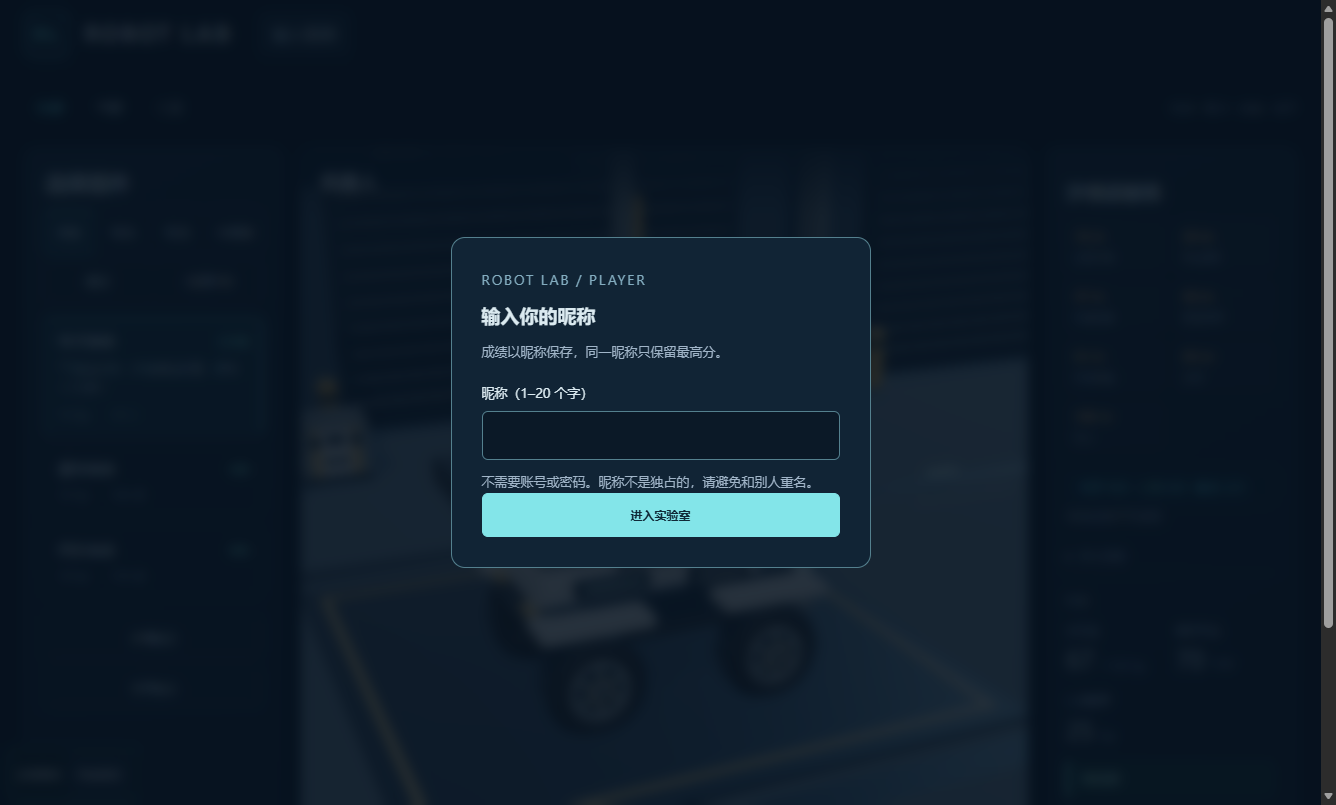
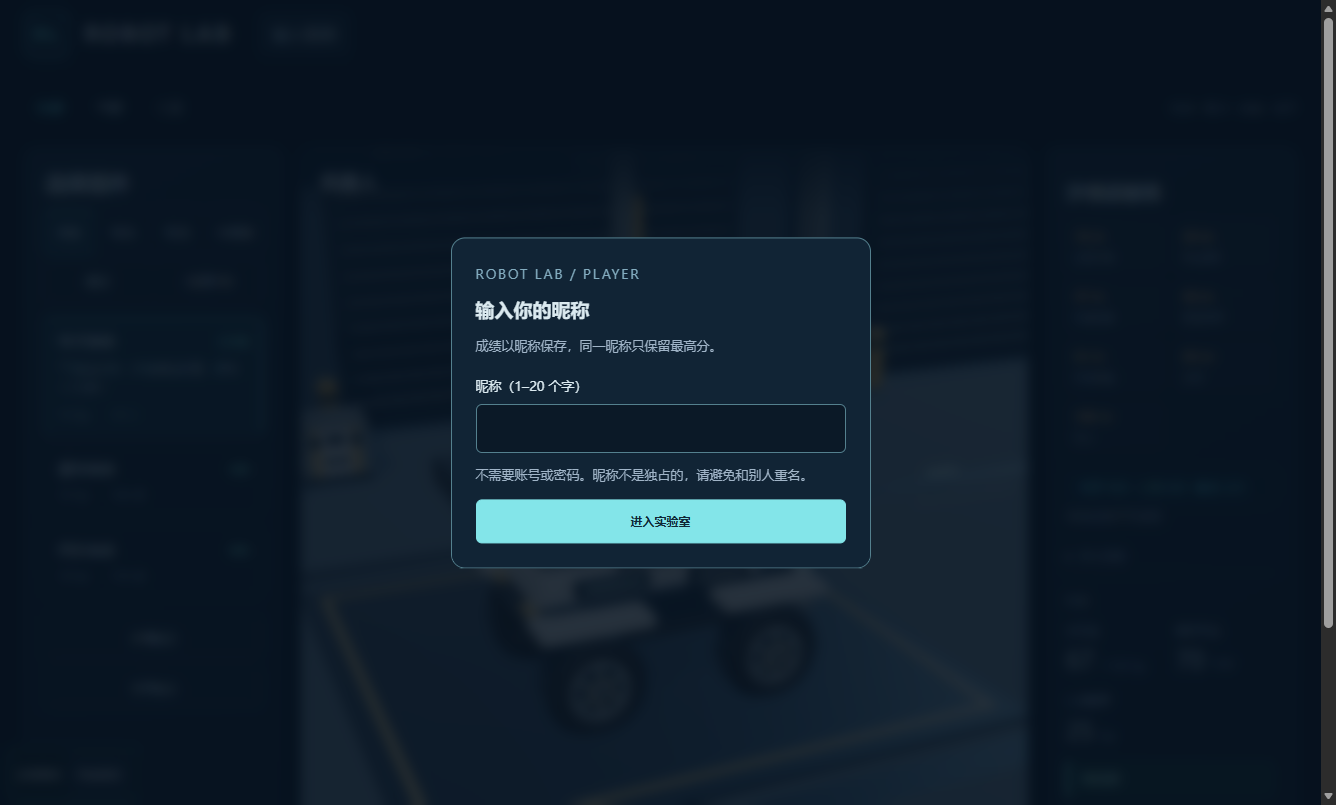
fix: keep mobile nickname confirmation stable with keyboard open

Changed region(s): [[0.3376, 0.559, 0.6445, 0.6832], [0.3376, 0.3416, 0.5217, 0.4969]]

diff --git a/src/app/NicknameScores.ts b/src/app/NicknameScores.ts
@@ -18,8 +18,20 @@ export class NicknameScores {
     } catch { /* Ignore invalid local drafts. */ }
     this.button = root.querySelector<HTMLButtonElement>('#nickname-button')!;
     this.dialog.className = 'nickname-dialog';
-    this.dialog.innerHTML = `<form id="nickname-form"><p class="eyebrow">ROBOT LAB / PLAYER</p><h2>输入你的昵称</h2><p class="muted">成绩以昵称保存，同一昵称只保留最高分。</p><label for="nickname-input">昵称（1–20 个字）</label><input id="nickname-input" name="nickname" autocomplete="nickname" maxlength="40" required><p class="muted">不需要账号或密码。昵称不是独占的，请避免和别人重名。</p><p id="nickname-error" role="alert"></p><button type="submit" class="primary">进入实验室</button></form>`;
+    this.dialog.innerHTML = `<form id="nickname-form"><div class="nickname-body"><p class="eyebrow">ROBOT LAB / PLAYER</p><h2 id="nickname-title">输入你的昵称</h2><p class="muted">成绩以昵称保存，同一昵称只保留最高分。</p><label for="nickname-input">昵称（1–20 个字）</label><input id="nickname-input" name="nickname" autocomplete="nickname" enterkeyhint="go" aria-describedby="nickname-error" maxlength="40" required><p class="muted">不需要账号或密码。昵称不是独占的，请避免和别人重名。</p><p id="nickname-error" role="alert"></p></div><div class="nickname-actions"><button type="submit" class="primary">进入实验室</button></div></form>`;
+    this.dialog.setAttribute('aria-labelledby', 'nickname-title');
     root.append(this.dialog);
+    const input = this.dialog.querySelector<HTMLInputElement>('input')!;
+    const submit = this.dialog.querySelector<HTMLButtonElement>('button[type="submit"]')!;
+    // Keep the keyboard open until click submits: blur can move the button before release.
+    const keepInputFocus = (event: MouseEvent | PointerEvent) => {
+      if (event.button === 0 && document.activeElement === input) event.preventDefault();
+    };
+    submit.addEventListener('pointerdown', keepInputFocus, { signal: this.abort.signal });
+    submit.addEventListener('mousedown', keepInputFocus, { signal: this.abort.signal });
+    window.addEventListener('resize', () => this.updateViewport(), { signal: this.abort.signal });
+    window.visualViewport?.addEventListener('resize', () => this.updateViewport(), { signal: this.abort.signal });
+    window.visualViewport?.addEventListener('scroll', () => this.updateViewport(), { signal: this.abort.signal });
     this.button.addEventListener('click', () => this.open(), {signal:this.abort.signal});
     this.dialog.addEventListener('cancel', e => { if (!this.nickname) e.preventDefault(); });
     this.dialog.querySelector('form')!.addEventListener('submit', e => {
@@ -36,7 +48,12 @@ export class NicknameScores {
     window.addEventListener('online', () => { void this.flush(); }, {signal:this.abort.signal});
     void this.flush();
   }
-  open() { this.dialog.querySelector<HTMLInputElement>('input')!.value=this.nickname; this.dialog.querySelector('#nickname-error')!.textContent=''; if (!this.dialog.open) this.dialog.showModal(); }
+  open() { this.dialog.querySelector<HTMLInputElement>('input')!.value=this.nickname; this.dialog.querySelector('#nickname-error')!.textContent=''; if (!this.dialog.open) { this.updateViewport(); this.dialog.showModal(); this.updateViewport(); } }
+  private updateViewport() {
+    const viewport = window.visualViewport;
+    this.dialog.style.setProperty('--nickname-viewport-height', `${viewport?.height ?? window.innerHeight}px`);
+    this.dialog.style.setProperty('--nickname-viewport-top', `${viewport?.offsetTop ?? 0}px`);
+  }
   update(running: boolean) { this.button.textContent=this.nickname ? this.nickname+' · 更换' : '输入昵称'; this.button.disabled=running; }
   storage(): ConfigurationStorage {
     const prefix='nickname:'+normalizeNickname(this.nickname).key+':';

diff --git a/src/ui/preview.css b/src/ui/preview.css
@@ -155,4 +155,8 @@ kbd{font:10px "Segoe UI",sans-serif;color:var(--muted);border:1px solid #5870847
 }
 
 
-.nickname-dialog{background:#112435;color:#dbeaf0;border:1px solid #54808e;border-radius:14px;padding:30px;width:min(420px,calc(100% - 32px));box-sizing:border-box}.nickname-dialog::backdrop{background:#05101dd9;backdrop-filter:blur(6px)}.nickname-dialog h2{margin:12px 0}.nickname-dialog p{line-height:1.8;font-size:13px}.nickname-dialog label{display:block;margin-top:20px;font-size:13px}.nickname-dialog input{width:100%;box-sizing:border-box;margin:10px 0;padding:13px;background:#0b1927;border:1px solid #54808e;border-radius:6px;color:#e0f5f5;font:inherit}.nickname-dialog #nickname-error{color:#ffb5a1}.nickname-dialog button{min-height:44px}#nickname-button{max-width:220px;overflow-wrap:anywhere}#record-status{overflow-wrap:anywhere}
+.nickname-dialog{position:fixed;inset:auto;left:50%;top:calc(var(--nickname-viewport-top,0px) + var(--nickname-viewport-height,100dvh)/2);transform:translate(-50%,-50%);margin:0;background:#112435;color:#dbeaf0;border:1px solid #54808e;border-radius:14px;padding:0;width:min(420px,calc(100% - 32px));max-height:calc(var(--nickname-viewport-height,100dvh) - 24px);box-sizing:border-box;overflow:hidden}
+.nickname-dialog form{display:flex;flex-direction:column;max-height:calc(var(--nickname-viewport-height,100dvh) - 26px);margin:0}
+.nickname-body{min-height:0;overflow:auto;overscroll-behavior:contain;padding:24px 24px 0;scroll-padding:12px}
+.nickname-actions{flex-shrink:0;padding:12px 24px 24px;background:#112435}
+.nickname-actions button{width:100%}.nickname-dialog::backdrop{background:#05101dd9;backdrop-filter:blur(6px)}.nickname-dialog h2{margin:12px 0}.nickname-dialog p{line-height:1.8;font-size:13px}.nickname-dialog label{display:block;margin-top:20px;font-size:13px}.nickname-dialog input{width:100%;box-sizing:border-box;margin:10px 0;padding:13px;background:#0b1927;border:1px solid #54808e;border-radius:6px;color:#e0f5f5;font:inherit;font-size:16px}.nickname-dialog #nickname-error{color:#ffb5a1}.nickname-dialog button{min-height:44px}#nickname-button{max-width:220px;overflow-wrap:anywhere}#record-status{overflow-wrap:anywhere}

diff --git a/TESTING.md b/TESTING.md
@@ -6,7 +6,8 @@
 - `npm run test:physics`：54套四足配置、装卸质量变化、接触摩擦、扰动翻倒/恢复、暂停、时间步等价、IK目标与动画适配器。
 - `npm run test:browser`：11项游戏浏览器验证。独立无头Edge读取生产构建，覆盖根入口/兼容入口、昵称辅助登录、双向路口、低功耗四足真实驾驶通桥/运输/结算、刷新成绩、结算按钮、手机横竖屏、触控/暂停及组件原生滑动。末尾可传部署网址。静态本地测试不启动API，API/UI交互另有专用检查。
 - `npm run test:leaderboard`：8项API验证。规范化昵称只保留最高分、Unicode合并、重复提交、非法/旧规则/测试/评分不一致请求、管理认证、编辑/昵称冲突/过期修订号、删除后旧提交不能恢复、重启持久化与备份。使用临时目录和随机管理密码，不接触真实成绩。
-- `npm run test:leaderboard:browser`：8项UI验证。昵称入口、游戏无榜单链接、更换昵称、离线补传、独立只读榜单、管理登录/编辑/删除/退出、手机横竖屏对话框及页面异常。使用临时API和随机管理密码。
+- `npm run test:leaderboard:browser`：10项UI验证。昵称入口、游戏无榜单链接、更换昵称、离线补传、独立只读榜单、管理登录/编辑/删除/退出、手机横竖屏对话框及页面异常。使用临时API和随机管理密码。新增真实触控按下/松开、失焦收键盘时的视口变化模拟、短视口确认按钮与回车提交检查。
+- `node scripts/verify-leaderboard-browser.mjs http://121.199.30.133:3001/`：仅验证公网昵称流程，5项检查，不提交成绩、不进行管理操作。证据在 `nickname-deployed/`。
 - `node deploy/verify-release.mjs`：公网6个页面入口的构建ID、API健康与规则、榜单返回结构、全部当前JS/CSS逐字节哈希。
 
 证据在 `docs/evidence/single-map/`。浏览器使用本机Edge及模拟手机视口，不替代真实手机GPU或其他浏览器验收。性能和成绩随浏览器实时调度略有波动。物理专用场景在 `scripts/physics-fixtures.mjs`，不属于产品可选地图。

diff --git a/IMPROVEMENT_PLAN.md b/IMPROVEMENT_PLAN.md
@@ -43,6 +43,8 @@
 
 首次进入游戏输入1–20字昵称，不创建账号、密码或个人资料；可在开局前更换昵称。昵称按Unicode NFC、首尾空格、连续空白和英文大小写统一比较。昵称不独占，重名视为同一人，因此界面提醒避免重名。
 
+手机软键盘打开时，昵称弹窗按可见视口布局，正文可滚动、确认区保持可见。按下确认按钮保留输入焦点，松开后提交，避免键盘提前收起造成点击落空；支持键盘回车提交。
+
 成功完成正式挑战自动提交成绩，失败和测试模式不提交。服务端复用评分算法，验证配置、结算指标和规则版本；相同局ID重复提交不会产生重复纪录。断网时本机暂存，启动、恢复联网或手动重试时补传。
 
 排行榜是独立构建入口 leaderboard.html，沿用深色青蓝UI；游戏内没有入口、链接或跳转，只能直接输入其网址。公共界面只读，按最高分降序、同分先达成者优先。管理员使用独立管理密码登录，可修改昵称和分数、删除纪录，修改冲突时刷新后重试。
@@ -63,6 +65,6 @@
 
 ## 验收与状态
 
-构建、17项领域验证、11项游戏浏览器验证、8项成绩API验证、8项排行榜浏览器验证及物理回归作为发布门槛。物理回归覆盖54套四足配置；浏览器覆盖桌面和手机横竖屏、真实驾驶、反向选路、原生滑动、昵称入口、补传及管理操作。
+构建、17项领域验证、11项游戏浏览器验证、8项成绩API验证、10项排行榜浏览器验证及物理回归作为发布门槛。物理回归覆盖54套四足配置；浏览器覆盖桌面和手机横竖屏、真实驾驶、反向选路、原生滑动、昵称入口、补传及管理操作。
 
 当前证据与限制见 docs/evidence/single-map/VERIFICATION.md，实际线上构建及回滚信息见 deploy/DEPLOYED.md。旧运行关卡与测试已清理，物理专用场景仅存在于 scripts/physics-fixtures.mjs。

diff --git a/deploy/DEPLOYED.md b/deploy/DEPLOYED.md
@@ -1,3 +1,16 @@
+# 2026-10-22 手机昵称确认补丁部署记录
+
+- 当前构建：build-2b88074d841b-20261022150238621；Git标签single-map-v3.1；计分规则保持single-map-v3。
+- 游戏：http://121.199.30.133:3001/；独立排行榜：http://121.199.30.133:3001/leaderboard.html。
+- 修复手机输入昵称后确认按钮因失焦收起键盘而移动、点击落空的问题；短屏确认按钮保持可见，支持回车提交。教程继续暂停。
+- 上传包SHA-256：2cc0d610e6d16ee7aa39aaefe975160bf032afbb506a5b059618583e9f23f343。远端校验后执行deploy/update.sh，current和api-current均切换成功。
+- 上一构建：build-ebfa380adf61-20261022142334460；静态目录、API容器与Nginx备份均保留。
+- 本地10项UI检查及公网5项昵称检查通过；6个页面、2个API与5个当前资源哈希检查通过。键盘收起通过模拟验证，尚无真机软键盘验收。
+- 成绩文件发布前后SHA-256均为818c8ad55d75ac0b149457c724cb8434daa96647bbea098c2e4798a962891e91；未改动既有成绩和管理密码。
+- 回滚时按既有流程同时恢复上一静态软链接、上一API容器及配置备份/opt/robot-lab/nginx.before-build-2b88074d841b-20261022150238621.conf；Nginx配置须原位写入并验证、重载，不覆盖数据目录。
+
+---
+
 # 2026-10-22 昵称计分与独立排行榜版部署记录
 
 - 游戏地址：http://121.199.30.133:3001/；独立排行榜：http://121.199.30.133:3001/leaderboard.html。游戏内无排行榜入口。
